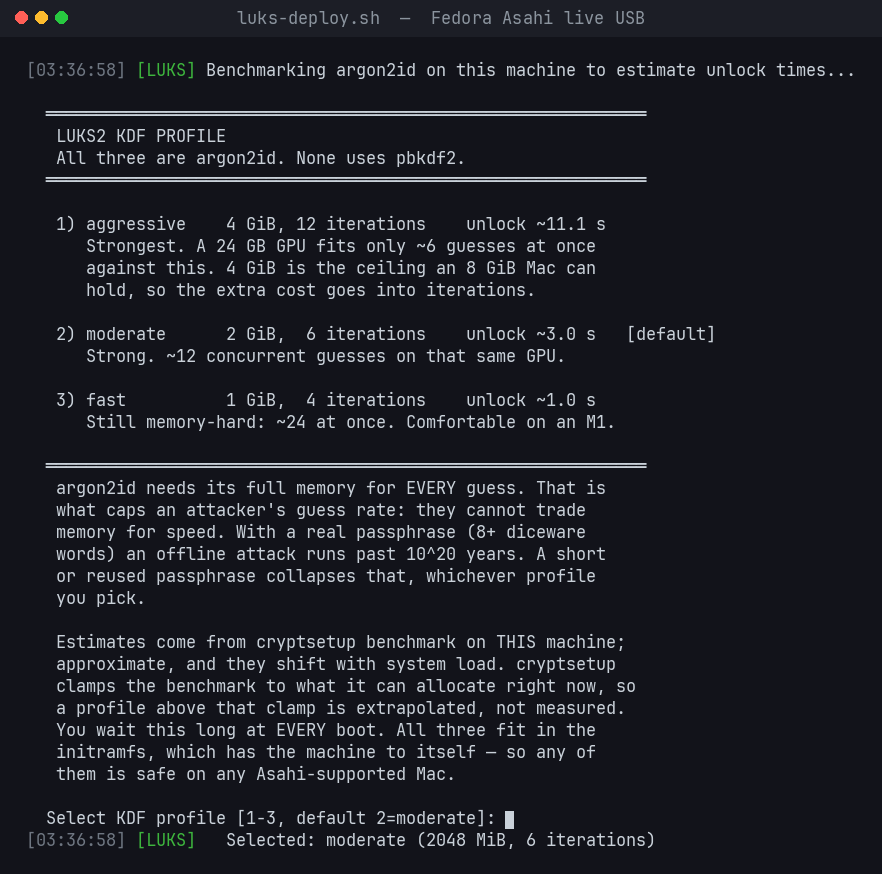
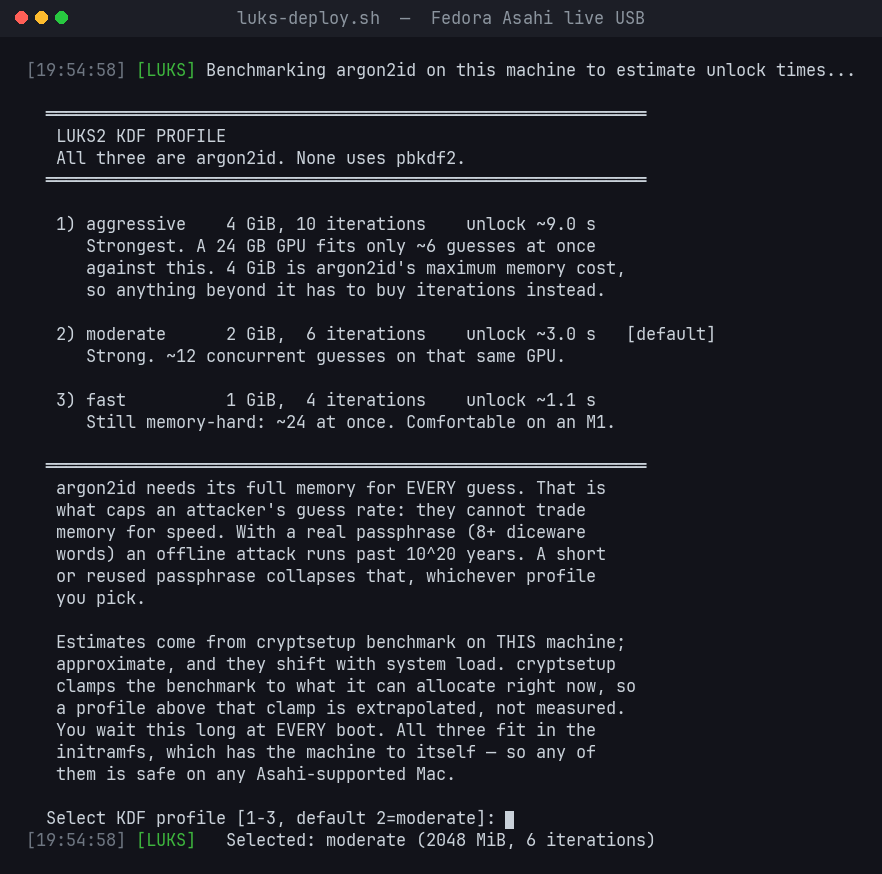
Correct the 4 GiB ceiling claim, and set aggressive back to t=10
I had written that 4 GiB is "the memory ceiling an 8 GiB Mac can hold".
That is wrong, and it invented a hardware reason for a protocol limit.
4 GiB is argon2id's maximum memory cost outright: cryptsetup rejects
anything above 4194304 KiB with "Requested maximum PBKDF memory cost is
too high (maximum is 4194304 kilobytes)". Verified directly - 4194304
is accepted, 4194305 and 8388608 are both refused. It has nothing to do
with how much RAM any particular machine has.

The conclusion the wrong reasoning reached was still right, and is now
stated for the right reason: memory cannot go above 4 GiB, so above it
iterations are the only remaining lever.

aggressive returns to 4 GiB / t=10. A side benefit is that the headline
figure is now a direct measurement rather than an extrapolation: 9.5 s
is what the journal showed for exactly these parameters, +/-0.1 s across
three boots.

Every derived figure recomputed from that rather than adjusted by hand:
the fleet guess rate moves 550 -> 630/s, so the pbkdf2 comparison is now
28 years vs 10 days at 40 bits (was 32 vs 12), 7-word drops to 10^16,
8-word to 10^20, and the Grover row for 6 words to 10 years. The cosmic
anchors still hold at the new exponents - galaxy evaporation is ~10^19
to 10^20 and proton decay ~10^34 - so none of those needed changing.
luks-tune.sh computes its own anchors from the exponent, so it tracks
automatically.

Screenshot regenerated. Swept for stale t=12 references: none left.
[…]

diff --git a/README.md b/README.md
@@ -170,7 +170,7 @@ numbers you see will be your own.*
 
 | Profile | Memory | Iterations | Threads |
 |---------|--------|-----------|---------|
-| `aggressive` | 4 GiB | 12 | 4 |
+| `aggressive` | 4 GiB | 10 | 4 |
 | `moderate` (default) | 2 GiB | 6 | 4 |
 | `fast` | 1 GiB | 4 | 4 |
 
@@ -299,18 +299,18 @@ are needed. Neither one carries the volume alone — a 4 GiB argon2id keyslot
 protecting `hunter2` falls in an afternoon, and a magnificent passphrase behind
 a cheap KDF is a lot cheaper to attack than you would like.
 
-The numbers below assume the `aggressive` profile (4 GiB, 12 iterations) and a
+The numbers below assume the `aggressive` profile (4 GiB, 10 iterations) and a
 well-funded attacker: **1,000 top-end GPUs, 24 GiB of VRAM each**, each running
 as many concurrent guesses as 4 GiB per guess leaves room for — about six — at
 the same per-guess cost this tool measures on your own machine. That is roughly
-550 guesses per second for the whole fleet. Times are to search half the
+630 guesses per second for the whole fleet. Times are to search half the
 keyspace, and they are orders of magnitude, not predictions.
 
 | Passphrase | Entropy | Time to break | What has happened by then |
 |---|---|---|---|
 | 6 diceware words | 77 bits | ~10^13 years | A thousand times the present age of the universe. The last red dwarfs are still burning — just. |
-| 7 diceware words | 90 bits | ~10^17 years | Star formation ended long ago. Nothing is left but cooling remnants. |
-| 8 diceware words | 103 bits | ~10^21 years | Galaxies have dynamically evaporated; the remnants drift alone in the dark. |
+| 7 diceware words | 90 bits | ~10^16 years | Star formation ended long ago. Nothing is left but cooling remnants. |
+| 8 diceware words | 103 bits | ~10^20 years | Galaxies have dynamically evaporated; the remnants drift alone in the dark. |
 | 10 diceware words | 129 bits | ~10^28 years | Approaching the era in which protons themselves may decay. |
 | 11 diceware words | 142 bits | ~10^32 years | Ordinary matter is dissolving, if protons decay at all. |
 
@@ -328,8 +328,8 @@ conservative for a GPU fleet, since the real gap grows with every new card:
 
 | Passphrase | Bits | argon2id 4 GiB | pbkdf2 |
 |---|---|---|---|
-| a human-chosen password | 40 | 32 years | **12 days** |
-| a good non-diceware passphrase | 60 | 10^8 years | 10^5 years |
+| a human-chosen password | 40 | 28 years | **10 days** |
+| a good non-diceware passphrase | 60 | 10^7 years | 10^4 years |
 | 6 diceware words | 77 | 10^13 years | 10^10 years |
 | 8 diceware words | 103 | 10^20 years | 10^17 years |
 | 10 diceware words | 129 | 10^28 years | 10^25 years |
@@ -337,7 +337,7 @@ conservative for a GPU fleet, since the real gap grows with every new card:
 Read the bottom rows and the top row differently, because they say different
 things. At high entropy both are past cosmic time — argon2id is not what saves
 you there, your passphrase is. The KDF decides the outcome in the **top row**,
-where most real passphrases actually live: thirty-two years versus twelve days
+where most real passphrases actually live: twenty-eight years versus ten days
 is the difference between a laptop that stays private and one that does not.
 
 A 1000× cheaper KDF is exactly equivalent to deleting `log2(1000) ≈ 10 bits`
@@ -362,7 +362,7 @@ worst case to the table above:
 
 | Passphrase | Bits | Effective vs. Grover | Time at 4 GiB argon2id |
 |---|---|---|---|
-| 6 diceware words | 77 | 38 | **11 years** |
+| 6 diceware words | 77 | 38 | **10 years** |
 | 8 diceware words | 103 | 51 | 10^5 years |
 | 10 diceware words | 129 | 64 | 10^9 years |
 

diff --git a/docs/INSTALL.md b/docs/INSTALL.md
@@ -178,7 +178,7 @@ The script is interactive but every prompt has a sensible default. In order:
 | `Type 'MISMATCH' to override` | The BOOT or EFI partition you selected does **not** match the UUID the target's own fstab expects — you probably picked a partition belonging to a different install. | Almost always abort and re-select. Only override if you know the fstab is the thing that is wrong |
 | `Continue anyway? (yes/no)` | The BLS boot entries disagree with `/etc/fstab` about which subvolume is root. | `no` — investigate first; see [RECOVERY.md](RECOVERY.md) |
 | `Run btrfs integrity check?` | A read-only `btrfs check`. Takes 5–30 min. | **`Y`** — this is your last chance to find pre-existing corruption |
-| `Select KDF profile [1-3]` | How hard your passphrase is to brute-force, versus how long you wait at every boot. The script benchmarks your machine and prints an estimate for each, so use the numbers it shows you rather than any figure quoted here. All three are argon2id. | `1` aggressive (4 GiB, 12 iters), `2` moderate (2 GiB, 6 iters), `3` fast (1 GiB, 4 iters). Default is `2` |
+| `Select KDF profile [1-3]` | How hard your passphrase is to brute-force, versus how long you wait at every boot. The script benchmarks your machine and prints an estimate for each, so use the numbers it shows you rather than any figure quoted here. All three are argon2id. | `1` aggressive (4 GiB, 10 iters), `2` moderate (2 GiB, 6 iters), `3` fast (1 GiB, 4 iters). Default is `2` |
 | `Continue despite btrfs errors?` | The integrity check found problems. | Abort and repair the filesystem first. `FORCE` overrides |
 | `Type 'ENCRYPT' to begin` | The point of no return, shown after a full pre-flight summary. In configuration-only mode (already-encrypted root) the word is `CONFIGURE` instead, and nothing is re-encrypted. | Read the summary carefully, then type `ENCRYPT` (or `CONFIGURE`) |
 | `Press Enter once Caps Lock is OFF` | Only shown when the kernel reports Caps Lock on at the `ENCRYPT` gate — which is exactly what happens if you switched it on to type that all-caps word. | Turn Caps Lock off, then Enter. `cryptsetup` asks for the passphrase twice, so an inverted one verifies fine and only fails at the boot prompt |
@@ -234,7 +234,7 @@ it is almost certainly waiting for you. Type the passphrase and press Enter.
 
 How long unlock takes depends on the profile you chose, and it tracks memory
 *times* iterations — not memory alone. On an M2 Max the three profiles measure
-roughly 1 s (fast), 3 s (moderate) and 11 s (aggressive). A 1 GiB argon2id unlock
+roughly 1 s (fast), 3 s (moderate) and 9.5 s (aggressive). A 1 GiB argon2id unlock
 is not a slow unlock on any machine you would still boot; the multi-second
 figures come mostly from the stacked iteration count, not the gigabytes.
 

diff --git a/docs/INTERNALS.md b/docs/INTERNALS.md
@@ -202,17 +202,20 @@ cryptographically verified on Asahi.
   the journal on an M2 Max — the gap between systemd-cryptsetup accepting the
   passphrase and the volume opening — argon2id at 4 GiB / 10 iterations / 4
   threads costs **9.5 s**, consistent to +/-0.1 s across three boots. That works
-  out to ~0.24 s per GiB-pass, which puts the shipped profiles at roughly 11 s
-  (aggressive, 4 GiB x 12), 3 s (moderate, 2 GiB x 6) and 1 s (fast, 1 GiB x 4).
+  out to ~0.24 s per GiB-pass. The `aggressive` profile IS that measurement
+  (4 GiB x 10); the others scale from it to roughly 3 s (moderate, 2 GiB x 6)
+  and 1 s (fast, 1 GiB x 4).
   Memory size alone is cheap on modern hardware: the 4 GiB in that 9.5 s
   accounts for about 1 s of it, and the rest is the iteration count. Do not read
   a large `--pbkdf-memory` as a slow boot, or a small one as a speed win.
 - **Why the paranoid tier buys cost in iterations.** Per second of user wait,
   memory is normally the better buy than iterations — it caps how many hashes an
-  attacker fits in VRAM at once, which iterations do not. But 4 GiB is already
-  half the RAM of an 8 GiB M1, the weakest machine this supports, so memory has
-  nowhere left to go. Above that ceiling iterations are the only remaining lever,
-  which is why `aggressive` is 4 GiB x 12 rather than 8 GiB x 6.
+  attacker fits in VRAM at once, which iterations do not. But **4 GiB is
+  argon2id's maximum memory cost**: `cryptsetup` rejects anything above
+  4194304 KiB outright (*"Requested maximum PBKDF memory cost is too high"*).
+  This is a hard protocol limit, not a property of any particular machine's RAM.
+  Memory therefore has nowhere left to go, and above it iterations are the only
+  remaining lever.
 - **You cannot brick the machine.** DFU and System Recovery always work, and macOS
   sits on separate APFS partitions this tooling never touches.
 - **16 KB pages.** Asahi kernels use a 16 KB page size; this affects nothing in the

diff --git a/docs/FLEET.md b/docs/FLEET.md
@@ -89,7 +89,7 @@ For unattended fleet runs, select the profile non-interactively so no box waits
 at the menu — and record which box got which profile:
 
 ```bash
-sudo LUKS_PROFILE=aggressive ./bin/luks-deploy.sh   # 4 GiB, t=12
+sudo LUKS_PROFILE=aggressive ./bin/luks-deploy.sh   # 4 GiB, t=10
 sudo LUKS_PROFILE=moderate   ./bin/luks-deploy.sh   # 2 GiB, t=6
 sudo LUKS_PROFILE=fast       ./bin/luks-deploy.sh   # 1 GiB, t=4
 ```
